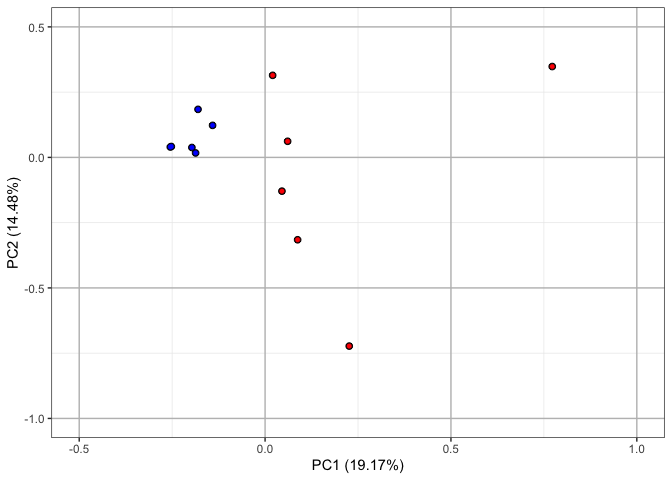
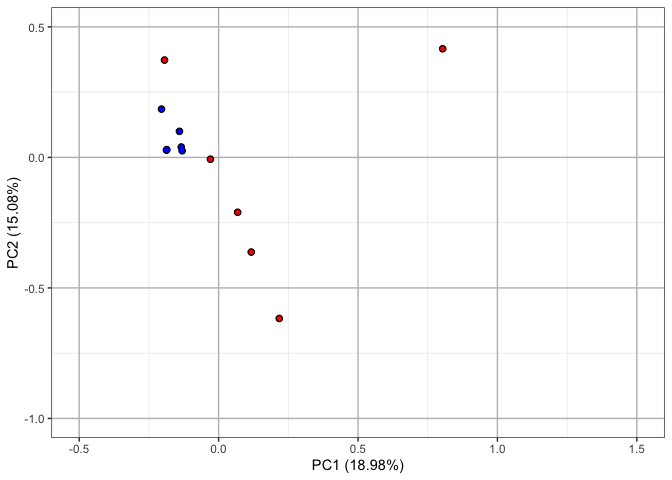
Updated Figures

diff --git a/Cuprizone_Analysis_2020.md b/Cuprizone_Analysis_2020.md
@@ -3,12 +3,6 @@ Bulk RNA-Seq Analysis of Control and Remyelinating hGPCs in vivo
 John Mariani
 1/30/2020
 
-<style>
-    body .main-container {
-        max-width: 1500px;
-    }
-</style>
-
 ### Read in RSEM gene output
 
 ``` r
@@ -229,22 +223,10 @@ dds36 <- DESeqDataSetFromTximport(txi.rsem, sampleTableFull, ~group)
     ## using counts and average transcript lengths from tximport
 
 ``` r
-dds36 <- DESeq(dds36, betaPrior =T)
+dds36 <- estimateSizeFactors(dds36)
 ```
 
-    ## estimating size factors
-
     ## using 'avgTxLength' from assays(dds), correcting for library size
-
-    ## estimating dispersions
-
-    ## gene-wise dispersion estimates
-
-    ## mean-dispersion relationship
-
-    ## final dispersion estimates
-
-    ## fitting model and testing
 
 ``` r
 counts <- as.matrix(counts(dds36, normalized=TRUE))
@@ -297,6 +279,8 @@ cupVsctrW <- deRUV(c("group","Cup.36", "Ctr.36"))
 TPMhigh <- data.frame(row.names= TPM$Row.names, ctrMeans = rowMeans(TPM[,2:7]), ctrMedians = rowMedians(as.matrix(TPM[,2:7])), cupMeans = rowMeans(TPM[,8:13]), cupMedians = rowMedians(as.matrix(TPM[,8:13])))
 TPMhigh <- merge(TPMhigh, ensemblGeneListH, by.x = 0, by.y = "ensembl_gene_id")
 TPMhigh <- TPMhigh[TPMhigh$ctrMeans > 6.5 | TPMhigh$cupMeans > 6.5,]
+
+#Filter out low abundance genes in DE list
 cupVsctrWtpm <- cupVsctrW[cupVsctrW$Row.names %in% TPMhigh$Row.names,]
 nrow(cupVsctrWtpm)
 ```
@@ -304,21 +288,32 @@ nrow(cupVsctrWtpm)
     ## [1] 914
 
 ``` r
+#write.csv(cupVsctrWtpm, cupVsctrWtpm)
+```
+
+### PCA
+
+``` r
 #Make PCA from RUV Normalized Counts
-pcaDF <- as.data.frame(log2(cpm(s@assayData$normalizedCounts)+1))
+pcaDF <- as.data.frame(log2(s@assayData$normalizedCounts+.5))
+
 pcaDFTPM <- pcaDF[row.names(pcaDF) %in% TPMhigh$Row.names,]
 
 condition_colors <- c(rep("blue",6),rep("red",6))
-p <- autoplot(prcomp(t(pcaDFTPM)), xlim = c(-.5, 1), ylim = c(-1,.5), x = 1, y =2 , size = 2) 
+p <- autoplot(prcomp(t(pcaDFTPM)), xlim = c(-.5, 1.5), ylim = c(-1,.5), x = 1, y =2 , size = 2) 
 p + theme_bw() + theme(panel.grid.major = element_line(colour = "grey")) + geom_point(colour = condition_colors, stroke =.2)
 ```
 
-![](Cuprizone_Analysis_2020_files/figure-gfm/unnamed-chunk-6-1.png)<!-- -->
+![](Cuprizone_Analysis_2020_files/figure-gfm/unnamed-chunk-7-1.png)<!-- -->
 
-### Make Marker HM
+### Celltype Marker Heatmap
 
 ``` r
 CNSgenes <- read.csv("data_for_import/CNSgenesCup.csv")
+pcaDF <- as.data.frame(log2(TPM[,2:13]+.5))
+row.names(pcaDF) <- TPM$Row.names
+pcaDFTPM <- pcaDF[row.names(pcaDF) %in% TPMhigh$Row.names,]
+
 CNSgeneslog <- merge(pcaDF,ensemblGeneListH,by.x=0,by.y="ensembl_gene_id")
 CNSgeneslog <- merge(CNSgenes,CNSgeneslog,by.x=1,by.y="external_gene_name")
 CNSgeneslog <- CNSgeneslog[match(CNSgenes$Gene, CNSgeneslog$Gene),]
@@ -327,36 +322,30 @@ my_palette <- colorRampPalette(c("#009900","#fffcbd","#ff2020"))(n=299)
 pheatmap(sigCNSlog, border_color = "Black", cluster_row = FALSE, cluster_cols = FALSE, color = my_palette, labels_col = c(rep("",12)), gaps_col = 6)
 ```
 
-![](Cuprizone_Analysis_2020_files/figure-gfm/unnamed-chunk-7-1.png)<!-- -->
+![](Cuprizone_Analysis_2020_files/figure-gfm/unnamed-chunk-8-1.png)<!-- -->
 
-### Make Functional and Module Organized HMs of DE genes
+### Make Functional and Module Organized Heatmaps of DE genes
 
 ``` r
 #Import genes for HMs labeled with relevant info
 pathways <- read.csv("data_for_import/CupFinalPathways.csv")
 
-sigsMatrixLog <- as.matrix(log2(cpm(s@assayData$normalizedCounts)+1))
-sigsDFlog <- data.frame(sigsMatrixLog)
-sigsDFlog <- merge(sigsDFlog,ensemblGeneListH,by.x=0,by.y="ensembl_gene_id")
-
 pathwaysDF <- as.data.frame(pathways$Gene)
-pathwaysDF <- merge(pathwaysDF, sigsDFlog, by.x = 1, by.y = "external_gene_name")
+pathwaysDF <- merge(pathwaysDF, TPM, by.x = 1, by.y = "external_gene_name")
 pathwaysDF <- data.frame(row.names = pathwaysDF$`pathways$Gene`, pathwaysDF[,3:14])
 annotations <- data.frame(row.names = pathways$Gene, Module = pathways$Module)
 
 mat_colors <- list(Module = c("#57bc9a", "#dd50dd", "#d78737", "#1b474a"))
 
 breaks <- seq(from = -3, to = 3, length.out = 299)
-makeHM <- function(df, category){
-  temp <-  as.data.frame(category$Gene)
-  temp <- merge(df, sigsDFlog, by.x = 0, by.y = "external_gene_name")
-  temp <- data.frame(row.names = temp$Row.names, temp[,2:13])
-  temp <- temp[row.names(temp) %in% category$Gene,]
+makeHM <- function(category){
+  temp <- TPM[TPM$external_gene_name %in% category$Gene,]
+  temp <- data.frame(row.names = temp$external_gene_name, temp[,2:13])
   annotations <- data.frame(row.names = category$Gene, Module = category$Module)
   annotations <- annotations[order(annotations$Module,decreasing = F),, drop = F]
   temp <- temp[match(row.names(annotations), row.names(temp)),]
-  pheatmap(temp, border_color = "Black", scale = "row", cluster_row = FALSE, cluster_cols = FALSE, color = my_palette,  labels_col = c(rep("",12)), gaps_col = 6, cellwidth = 10, cellheight = 10, annotation_row = annotations, annotation_colors = mat_colors, breaks = breaks, annotation_legend = T, legend = T, annotation_names_row = F, main = unique(category$Category))
-}  
+  pheatmap(log2(temp+.5), border_color = "Black", scale = "row", cluster_row = FALSE, cluster_cols = FALSE, color = my_palette,  labels_col = c(rep("",12)), gaps_col = 6, cellwidth = 10, cellheight = 10, annotation_row = annotations, annotation_colors = mat_colors, breaks = breaks, annotation_legend = T, legend = T, annotation_names_row = F, main = unique(category$Category))
+}
 
 adhesion <- pathways[pathways$Category == "Cell Adhesion and Structural Proteins",]
 channels <- pathways[pathways$Category == "Channels and Transporters",]
@@ -366,46 +355,65 @@ ligands <- pathways[pathways$Category == "Ligands and Secreted Proteins",]
 receptors <- pathways[pathways$Category == "Receptors and Downstream Components",]
 tfs  <-  pathways[pathways$Category == "Transcriptional Regulators",]  
 
-makeHM(pathwaysDF, adhesion)  
+makeHM(adhesion)  
 ```
 
-![](Cuprizone_Analysis_2020_files/figure-gfm/unnamed-chunk-8-1.png)<!-- -->
+![](Cuprizone_Analysis_2020_files/figure-gfm/unnamed-chunk-9-1.png)<!-- -->
 
 ``` r
-makeHM(pathwaysDF,channels) 
+makeHM(channels) 
 ```
 
-![](Cuprizone_Analysis_2020_files/figure-gfm/unnamed-chunk-8-2.png)<!-- -->
+![](Cuprizone_Analysis_2020_files/figure-gfm/unnamed-chunk-9-2.png)<!-- -->
 
 ``` r
-makeHM(pathwaysDF,enzymes)
+makeHM(enzymes)
 ```
 
-![](Cuprizone_Analysis_2020_files/figure-gfm/unnamed-chunk-8-3.png)<!-- -->
+![](Cuprizone_Analysis_2020_files/figure-gfm/unnamed-chunk-9-3.png)<!-- -->
 
 ``` r
-makeHM(pathwaysDF,kinases)
+makeHM(kinases)
 ```
 
-![](Cuprizone_Analysis_2020_files/figure-gfm/unnamed-chunk-8-4.png)<!-- -->
+![](Cuprizone_Analysis_2020_files/figure-gfm/unnamed-chunk-9-4.png)<!-- -->
 
 ``` r
-makeHM(pathwaysDF,ligands)
+makeHM(ligands)
 ```
 
-![](Cuprizone_Analysis_2020_files/figure-gfm/unnamed-chunk-8-5.png)<!-- -->
+![](Cuprizone_Analysis_2020_files/figure-gfm/unnamed-chunk-9-5.png)<!-- -->
 
 ``` r
-makeHM(pathwaysDF,receptors)
+makeHM(receptors)
 ```
 
-![](Cuprizone_Analysis_2020_files/figure-gfm/unnamed-chunk-8-6.png)<!-- -->
+![](Cuprizone_Analysis_2020_files/figure-gfm/unnamed-chunk-9-6.png)<!-- -->
 
 ``` r
-makeHM(pathwaysDF,tfs)
+makeHM(tfs)
 ```
 
-![](Cuprizone_Analysis_2020_files/figure-gfm/unnamed-chunk-8-7.png)<!-- -->
+![](Cuprizone_Analysis_2020_files/figure-gfm/unnamed-chunk-9-7.png)<!-- -->
+
+### Make GO Bar plot
+
+``` r
+### Import Module information and filter
+GOterms <- read.delim("data_for_import/GOmodules.txt")
+GOterms <- GOterms[GOterms$ForGraph == "Yes",]
+GOterms$GO.Annotation <- droplevels(GOterms$GO.Annotation)
+GOterms$GO.Annotation <- factor(GOterms$GO.Annotation, levels = rev(GOterms$GO.Annotation))
+GOterms$Module <- factor(GOterms$Module)
+
+attach(GOterms)
+ggplot(GOterms, aes(fill=Module, x=GO.Annotation, y=X.log10.pvalue.)) + 
+  geom_bar(position="dodge", stat="identity") + coord_flip() +
+  ylab("Adjusted p-value (-log10)") + scale_y_continuous(expand = c(0, 0)) +
+  xlab("GO Terms") + theme_minimal() + scale_fill_manual("Module", values = c("1" = mat_colors$Module[1], "2" = mat_colors$Module[2], "3" = mat_colors$Module[3], "4" = mat_colors$Module[4]))
+```
+
+![](Cuprizone_Analysis_2020_files/figure-gfm/unnamed-chunk-10-1.png)<!-- -->
 
 ### Session Info
 
@@ -415,7 +423,7 @@ sessionInfo()
 
     ## R version 3.6.1 (2019-07-05)
     ## Platform: x86_64-apple-darwin15.6.0 (64-bit)
-    ## Running under: macOS Mojave 10.14.6
+    ## Running under: macOS High Sierra 10.13.6
     ## 
     ## Matrix products: default
     ## BLAS:   /Library/Frameworks/R.framework/Versions/3.6/Resources/lib/libRblas.0.dylib
@@ -447,28 +455,28 @@ sessionInfo()
     ##  [1] bitops_1.0-6           bit64_0.9-7            RColorBrewer_1.1-2    
     ##  [4] progress_1.2.2         httr_1.4.1             tools_3.6.1           
     ##  [7] backports_1.1.5        R6_2.4.1               rpart_4.1-15          
-    ## [10] Hmisc_4.3-0            DBI_1.0.0              lazyeval_0.2.2        
+    ## [10] Hmisc_4.3-0            DBI_1.1.0              lazyeval_0.2.2        
     ## [13] colorspace_1.4-1       nnet_7.3-12            withr_2.1.2           
     ## [16] gridExtra_2.3          tidyselect_0.2.5       prettyunits_1.0.2     
-    ## [19] bit_1.1-14             compiler_3.6.1         htmlTable_1.13.3      
+    ## [19] bit_1.1-14             compiler_3.6.1         htmlTable_1.13.2      
     ## [22] labeling_0.3           rtracklayer_1.44.4     checkmate_1.9.4       
     ## [25] scales_1.1.0           genefilter_1.66.0      DESeq_1.36.0          
     ## [28] stringr_1.4.0          digest_0.6.23          foreign_0.8-72        
-    ## [31] rmarkdown_2.0          R.utils_2.9.0          base64enc_0.1-3       
+    ## [31] rmarkdown_1.18         R.utils_2.9.2          base64enc_0.1-3       
     ## [34] pkgconfig_2.0.3        htmltools_0.4.0        htmlwidgets_1.5.1     
-    ## [37] rlang_0.4.2            rstudioapi_0.10        RSQLite_2.1.4         
+    ## [37] rlang_0.4.2            rstudioapi_0.10        RSQLite_2.1.5         
     ## [40] farver_2.0.1           hwriter_1.3.2          acepack_1.4.1         
     ## [43] dplyr_0.8.3            R.oo_1.23.0            RCurl_1.95-4.12       
     ## [46] magrittr_1.5           GenomeInfoDbData_1.2.1 Formula_1.2-3         
     ## [49] Matrix_1.2-18          Rcpp_1.0.3             munsell_0.5.0         
-    ## [52] lifecycle_0.1.0        R.methodsS3_1.7.1      stringi_1.4.5         
+    ## [52] lifecycle_0.1.0        R.methodsS3_1.7.1      stringi_1.4.3         
     ## [55] yaml_2.2.0             MASS_7.3-51.4          zlibbioc_1.30.0       
     ## [58] grid_3.6.1             blob_1.2.0             crayon_1.3.4          
     ## [61] lattice_0.20-38        splines_3.6.1          GenomicFeatures_1.36.4
     ## [64] annotate_1.62.0        hms_0.5.2              locfit_1.5-9.1        
     ## [67] zeallot_0.1.0          knitr_1.26             pillar_1.4.3          
     ## [70] geneplotter_1.62.0     XML_3.98-1.20          glue_1.3.1            
-    ## [73] evaluate_0.14          latticeExtra_0.6-28    data.table_1.12.6     
+    ## [73] evaluate_0.14          latticeExtra_0.6-28    data.table_1.12.8     
     ## [76] vctrs_0.2.1            tidyr_1.0.0            gtable_0.3.0          
     ## [79] purrr_0.3.3            assertthat_0.2.1       xfun_0.11             
     ## [82] aroma.light_3.14.0     xtable_1.8-4           survival_3.1-7        
